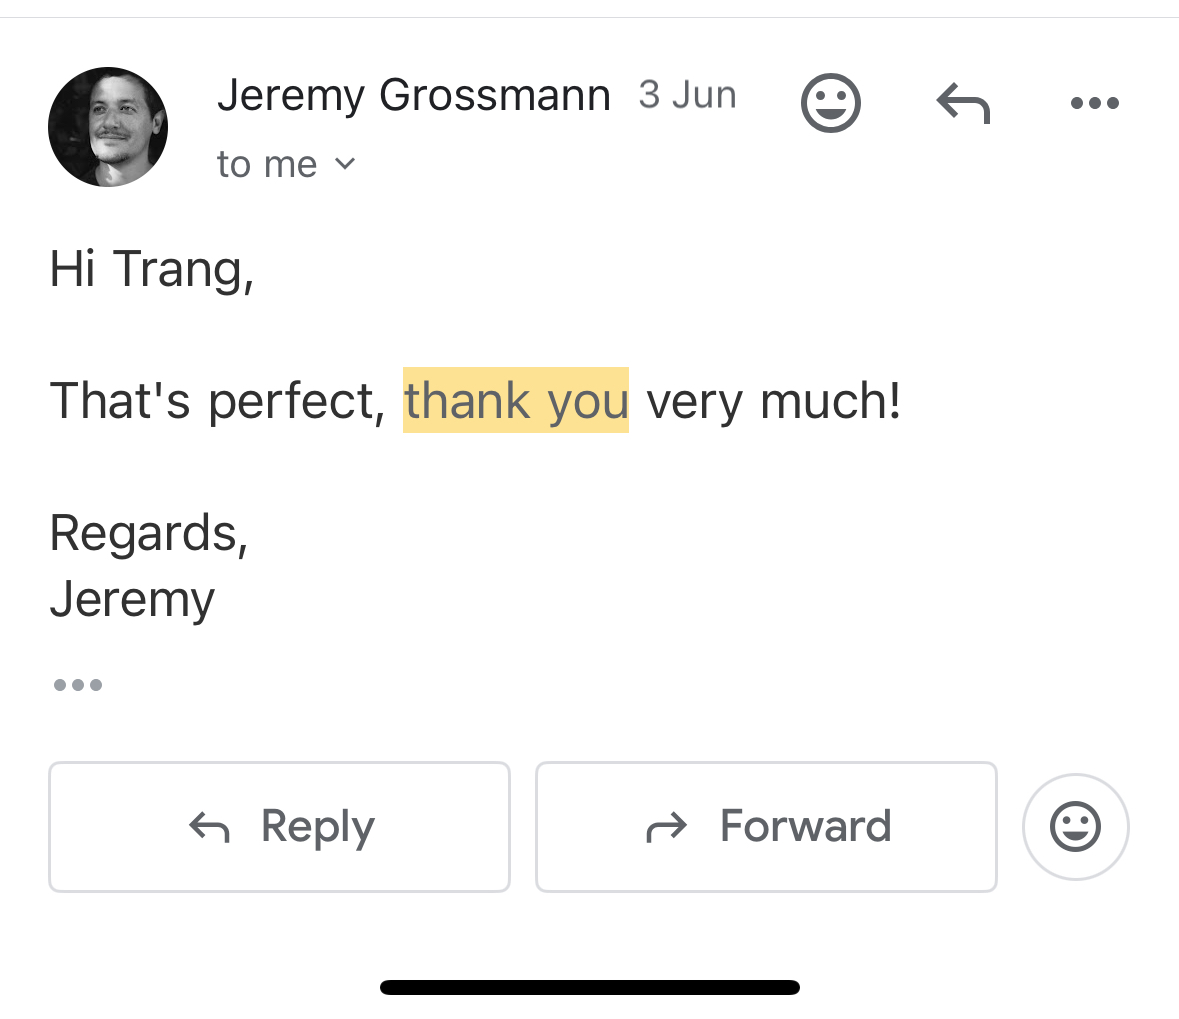
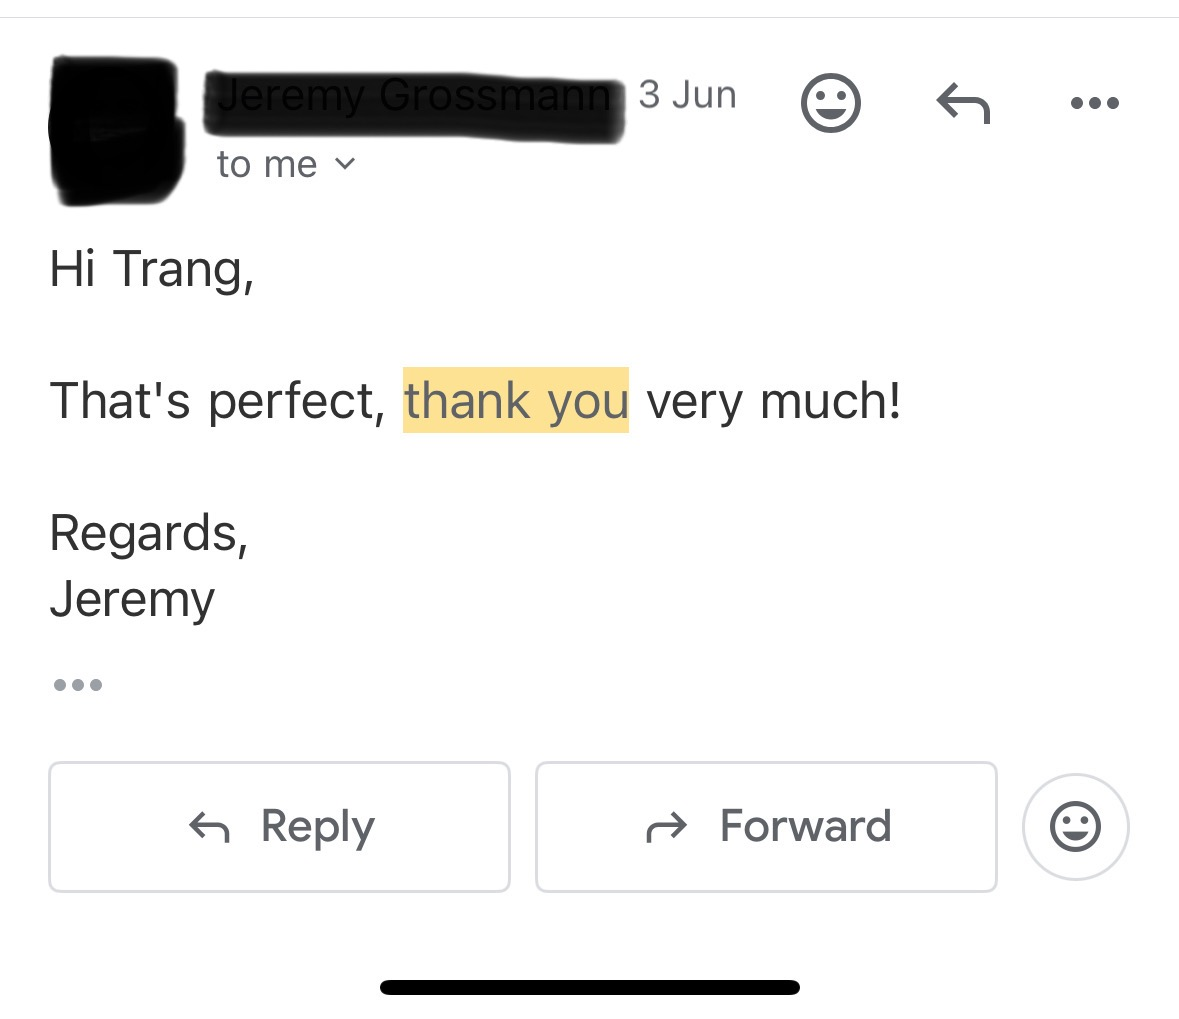
testimonials

diff --git a/index.html b/index.html
@@ -147,7 +147,6 @@
             
             <!-- Track that moves -->
             <div class="carousel-track">
-                <!--
                 <div class="testimonial">
                     <div class="container-testimonial-photo">
                         <img src="./assets/img_testimonials/IMG_6124.jpg" alt="" width="90%">
@@ -178,12 +177,12 @@
                         <img src="./assets/img_testimonials/IMG_6134.jpg" alt="" width="90%">
                     </div>
                 </div>
-                <div class="testimonial">
+                <div class="testimonial scale">
                     <div class="container-testimonial-photo">
-                        <img src="./assets/img_testimonials/IMG_6135.jpg" alt="" width="90%">
+                        <img src="./assets/img_testimonials/IMG_6135.jpg" alt="">
+                        <h1>Olivia J, lawyer</h1>
                     </div>
                 </div>
-                -->
                 <!--
                 <div class="testimonial">
                     <p>"Superb experience from start to finish!"</p>

diff --git a/css/thisstyles.css b/css/thisstyles.css
@@ -38,6 +38,11 @@ section#contact {
   text-align: center;
 }
 
+.testimonial.scale {
+    transform: scale(0.3);
+    transform-origin: top left; /* keeps scaling from the top-left */
+}
+
 .slider-btn {
   background: #333;
   color: #fff;
